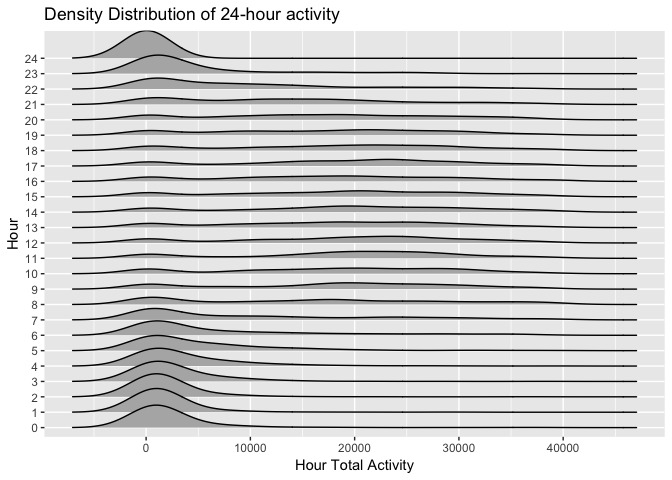
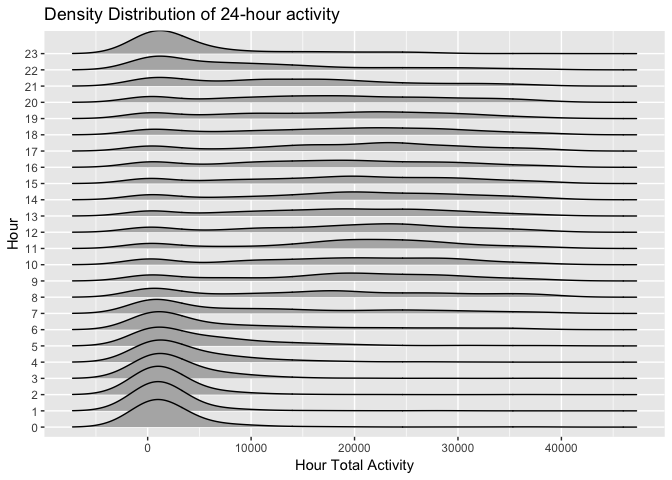
change 25 hours to 24 hours

Changed region(s): [[0.0312, 0.0625, 0.9688, 0.9688], [0.2188, 0.9062, 0.25, 0.9375]]

diff --git a/p8105_mtp_xy2395.md b/p8105_mtp_xy2395.md
@@ -50,7 +50,7 @@ motion_data =
     # `day_num` variable denotes number of days past the beginning of the study
     day_num = ((week - 1) * 7 + as.numeric(day)) %>% as.integer(),
     # `hour` variable denotes 24 hours in a day
-    hour = as.integer(minute / 60) %>% as.factor()
+    hour = as.integer((minute - 1) / 60) %>% as.factor()
   ) %>% 
   # The variables and observations are arranged in a reasonable order.
   select(day_num, week, day, minute, hour, activity) %>% 
@@ -69,7 +69,7 @@ str(motion_data)
     ##  $ week    : int  1 1 1 1 1 1 1 1 1 1 ...
     ##  $ day     : Factor w/ 7 levels "Sunday","Monday",..: 1 1 1 1 1 1 1 1 1 1 ...
     ##  $ minute  : int  1 2 3 4 5 6 7 8 9 10 ...
-    ##  $ hour    : Factor w/ 25 levels "0","1","2","3",..: 1 1 1 1 1 1 1 1 1 1 ...
+    ##  $ hour    : Factor w/ 24 levels "0","1","2","3",..: 1 1 1 1 1 1 1 1 1 1 ...
     ##  $ activity: num  1 1 1 1 1 1 1 1 1 1 ...
 
 A visualization of distribution of daily activity was made and shown below. Interestingly, for some given days, activity measurement was close to zero, which incidates no activity recorded for the person in a whole day.
@@ -257,7 +257,7 @@ In this section, we start to investigate how activity counts vary in 24 hours ea
     )
 ```
 
-    ## Picking joint bandwidth of 2350
+    ## Picking joint bandwidth of 2440
 
 ![](p8105_mtp_xy2395_files/figure-markdown_github/unnamed-chunk-8-1.png)
 
